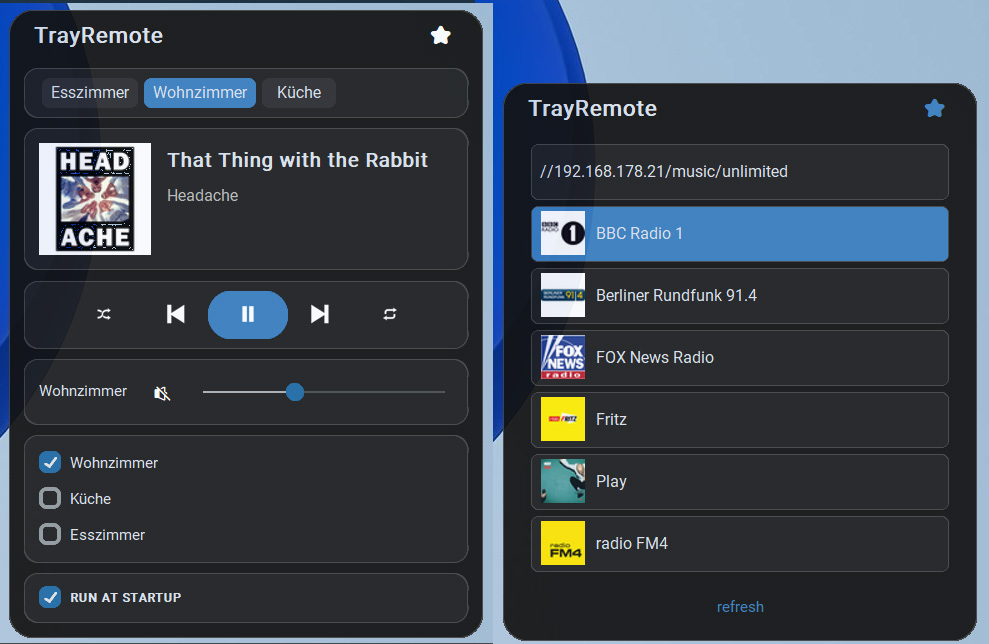
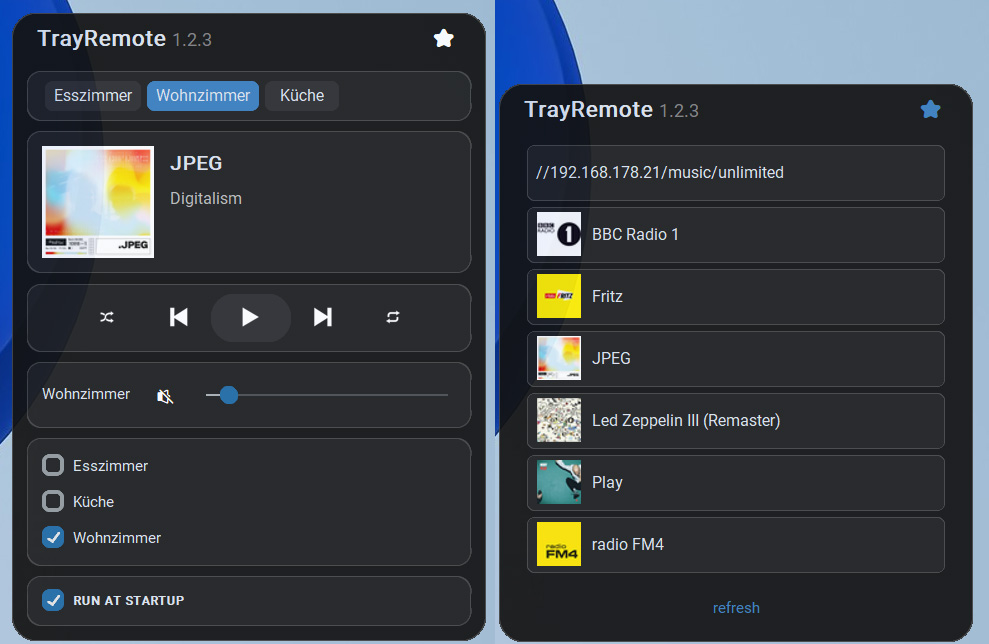
Handle Spotify favs, add diagnostics & version
Add Spotify favorite support and developer utilities: introduce APP_VERSION constant; add two diagnostic scripts (list_favorites_diagnostic.py, play_spotify_fav.py) to inspect Sonos favorites and play Spotify favorites via ShareLinkPlugin; update SonosController.play_favorite to detect Spotify URIs, extract/clean Spotify links, and use ShareLinkPlugin with a fallback to standard playback. UI tweaks in tray_app: increase title size, display APP_VERSION in the header, ensure dynamic sections rebuild when group membership changes, and add staggered rebuild delays after join/unjoin to ensure state consistency. Updated screenshot asset.

diff --git a/core/play_spotify_fav.py b/core/play_spotify_fav.py
@@ -1,0 +1,79 @@
+import soco
+from soco.plugins.sharelink import ShareLinkPlugin
+import sys
+
+def play_spotify_favorite(favorite_title):
+    print(f"Searching for speaker...")
+    device = soco.discovery.any_soco()
+    if not device:
+        print("No Sonos devices found.")
+        return
+
+    print(f"Found speaker: {device.player_name}")
+    
+    print(f"Searching for favorite: '{favorite_title}'")
+    favs = device.music_library.get_sonos_favorites()
+    
+    target_fav = None
+    for fav in favs:
+        if getattr(fav, 'title', '').lower() == favorite_title.lower():
+            target_fav = fav
+            break
+            
+    if not target_fav:
+        print(f"Favorite '{favorite_title}' not found.")
+        return
+
+    # Get URI
+    uri = ""
+    try:
+        if hasattr(target_fav, 'get_uri'): uri = target_fav.get_uri()
+        else: uri = getattr(target_fav, 'uri', "")
+    except Exception as e:
+        print(f"Could not get URI: {e}")
+        return
+
+    print(f"Found URI: {uri}")
+
+    # Check if it's a Spotify URI (common for Spotify favorites)
+    # Often looks like: x-rincon-cpcontainer:1004206caspotify%3aalbum%3a...
+    # The ShareLinkPlugin likes cleaner URIs or Spotify links, 
+    # but we can extract the Spotify ID if needed.
+    
+    plugin = ShareLinkPlugin(device)
+    
+    print(f"Adding to queue via ShareLinkPlugin...")
+    try:
+        # The ShareLinkPlugin.add_share_link_to_queue handles Spotify URIs/links
+        # If the URI from favorites is already a 'spotify:album:...' it works.
+        # If it's a 'x-rincon-cpcontainer...', we might need to extract the 'spotify:album:...' part.
+        
+        clean_uri = uri
+        if "spotify%3a" in uri.lower():
+            import urllib.parse
+            # Extract the part starting with spotify:
+            start_idx = uri.lower().find("spotify%3a")
+            encoded_part = uri[start_idx:]
+            # Stop at the first '?' if present
+            if "?" in encoded_part:
+                encoded_part = encoded_part.split("?")[0]
+            clean_uri = urllib.parse.unquote(encoded_part)
+            print(f"Extracted clean Spotify URI: {clean_uri}")
+
+        # Add to queue
+        plugin.add_share_link_to_queue(clean_uri)
+        
+        # Play the last added item in the queue
+        queue = device.get_queue()
+        print(f"Queue size now: {len(queue)}")
+        device.play_from_queue(len(queue) - 1)
+        print("Playback started!")
+        
+    except Exception as e:
+        print(f"Error using ShareLinkPlugin: {e}")
+
+if __name__ == "__main__":
+    if len(sys.argv) > 1:
+        play_spotify_favorite(sys.argv[1])
+    else:
+        print("Usage: python play_spotify_fav.py 'Favorite Name'")

diff --git a/core/sonos_controller.py b/core/sonos_controller.py
@@ -1,5 +1,7 @@
 import soco
 import xml.etree.ElementTree as ET
+from soco.plugins.sharelink import ShareLinkPlugin
+import urllib.parse
 
 class SonosController:
     def __init__(self):
@@ -114,7 +116,7 @@ class SonosController:
             return []
 
     def play_favorite(self, fav_data, group_uid=None):
-        """Plays favorites using robust methods for radio streams."""
+        """Plays favorites using robust methods for radio streams and music services."""
         target = self.device
         if group_uid:
             for p in self.players:
@@ -133,6 +135,35 @@ class SonosController:
                     meta = getattr(fav, 'metadata', "")
 
                     print(f"Attempting playback of: {title}")
+
+                    # --- SPECIAL HANDLING FOR SPOTIFY (Tracks, Albums, Playlists) ---
+                    if "spotify" in uri.lower():
+                        try:
+                            print(f"Spotify favorite detected, using ShareLinkPlugin for: {title}")
+                            plugin = ShareLinkPlugin(target)
+                            
+                            clean_uri = uri
+                            # Handle different possible Spotify URI formats in Sonos
+                            if "spotify%3a" in uri.lower() or "spotify:" in uri.lower():
+                                lower_uri = uri.lower()
+                                search_term = "spotify%3a" if "spotify%3a" in lower_uri else "spotify:"
+                                start_idx = lower_uri.find(search_term)
+                                encoded_part = uri[start_idx:]
+                                # Stop at the first '?' or '&' or '"' if present
+                                for char in ['?', '&', '"']:
+                                    if char in encoded_part:
+                                        encoded_part = encoded_part.split(char)[0]
+                                clean_uri = urllib.parse.unquote(encoded_part)
+                                print(f"Extracted Spotify URI: {clean_uri}")
+                            
+                            # Add to queue and play
+                            plugin.add_share_link_to_queue(clean_uri)
+                            queue = target.get_queue()
+                            target.play_from_queue(len(queue) - 1)
+                            print(f"Successfully started Spotify favorite: {title}")
+                            return
+                        except Exception as sp_err:
+                            print(f"ShareLinkPlugin failed for Spotify: {sp_err}, falling back to standard play_uri...")
 
                     try:
                         # For radio favorites (x-sonosapi-stream), providing metadata is mandatory.

diff --git a/core/tray_app.py b/core/tray_app.py
@@ -92,10 +92,14 @@ class SonosTrayApp(ctk.CTk):
         self.header_container = ctk.CTkFrame(self.outer_frame, fg_color="transparent")
         self.header_container.pack(side="top", fill="x", padx=12, pady=(5, 5))
         
-        self.title_label = ctk.CTkLabel(self.header_container, text="TrayRemote", font=ctk.CTkFont(size=16, weight="bold"))
-        self.title_label.pack(side="left", padx=8)
-        
+        self.title_label = ctk.CTkLabel(self.header_container, text="TrayRemote", font=ctk.CTkFont(size=18, weight="bold"))
+        self.title_label.pack(side="left", padx=(8, 5))
+
+        self.version_label = ctk.CTkLabel(self.header_container, text=APP_VERSION, font=ctk.CTkFont(size=14), text_color="gray")
+        self.version_label.pack(side="left", pady=(3, 0))
+
         self.fav_toggle_btn = ctk.CTkButton(self.header_container, text="⭐", width=32, height=32, 
+
                                             fg_color="transparent", hover_color="#2a2a2b", 
                                             text_color="#FFFFFF",
                                             font=ctk.CTkFont(size=16), command=self.toggle_favorites)
@@ -331,6 +335,10 @@ class SonosTrayApp(ctk.CTk):
                 for name, w in self.room_vol_widgets.items():
                     p_fresh = next((m for m in active_g.members if m.player_name == name), w["player"])
                     w["slider"].set(p_fresh.volume); w["mute_btn"].configure(text_color=MUTE_RED if p_fresh.mute else "#FFFFFF")
+                
+                # Check if grouping changed (member count mismatch)
+                if len(self.room_vol_widgets) != len(active_g.members):
+                    self.rebuild_dynamic_sections()
         except: pass
         self.after(2000, self.update_status)
 
@@ -422,7 +430,10 @@ class SonosTrayApp(ctk.CTk):
             if target:
                 if p.group.coordinator.uid == target.uid: p.unjoin()
                 else: p.join(target)
-                self.after(800, self.rebuild_dynamic_sections)
+                # First refresh after a short delay (1.2s)
+                self.after(1200, self.rebuild_dynamic_sections)
+                # Safety refresh after a longer delay (3s) to ensure Sonos state is updated
+                self.after(3000, self.rebuild_dynamic_sections)
         threading.Thread(target=t, daemon=True).start()
 
     def set_vol(self, p, v): threading.Thread(target=lambda: setattr(p, 'volume', int(float(v))), daemon=True).start()

diff --git a/core/list_favorites_diagnostic.py b/core/list_favorites_diagnostic.py
@@ -1,0 +1,26 @@
+import soco
+
+def discover():
+    print("Discovering Sonos devices...")
+    device = soco.discovery.any_soco()
+    if not device:
+        print("No Sonos devices found.")
+        return
+    
+    print(f"Found speaker: {device.player_name}")
+    print("\n--- Sonos Favorites ---")
+    favs = device.music_library.get_sonos_favorites()
+    for i, fav in enumerate(favs):
+        title = getattr(fav, 'title', 'Unknown')
+        uri = ""
+        try:
+            if hasattr(fav, 'get_uri'): uri = fav.get_uri()
+            else: uri = getattr(fav, 'uri', "")
+        except: pass
+        
+        print(f"[{i}] Title: {title}")
+        print(f"    URI:   {uri}")
+        print("-" * 20)
+
+if __name__ == "__main__":
+    discover()

diff --git a/core/constants.py b/core/constants.py
@@ -13,3 +13,4 @@ CORNER_RADIUS_OUTER = 20
 CORNER_RADIUS_INNER = 12
 CHROMA_KEY = "#010101"
 WINDOW_ALPHA = 0.92
+APP_VERSION = "1.2.3"
